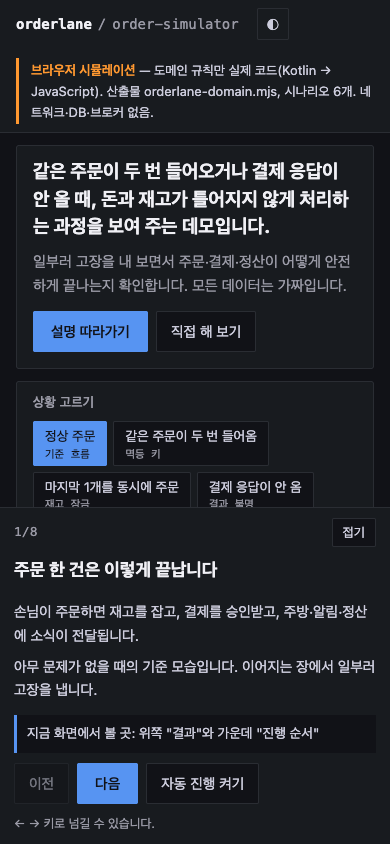
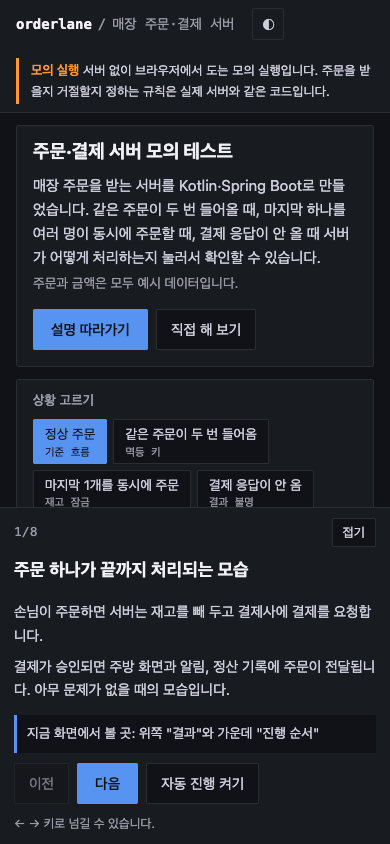
docs(web): 사이트와 README 문구를 무엇을 만든 것인지 바로 알 수 있게 고침

diff --git a/web/src/app.js b/web/src/app.js
@@ -2,12 +2,12 @@
 import * as domain from './orderlane-domain.mjs';
 
 const SCENARIOS = {
-  'happy': { label: '정상 주문', tech: '기준 흐름', desc: '손님이 주문하면 재고를 잡고, 결제를 승인받고, 주방·알림·정산에 소식이 전달됩니다. 아무 문제가 없을 때의 기준 모습입니다.' },
-  'duplicate-request': { label: '같은 주문이 두 번 들어옴', tech: '멱등 키', desc: '응답을 못 받은 앱이 같은 요청을 다시 보냅니다. 요청마다 붙은 이름표(멱등 키)와 내용을 비교해 어떻게 답할지 정합니다.' },
-  'concurrent-order': { label: '마지막 1개를 동시에 주문', tech: '재고 잠금', desc: '여러 명이 같은 순간에 마지막 재고를 주문합니다. 재고를 지키는 방식에 따라 결과가 달라집니다.' },
-  'payment-timeout': { label: '결제 응답이 안 옴', tech: '결과 불명', desc: '결제사 응답이 오지 않아 승인됐는지 알 수 없습니다. 결제사에 다시 물어봐서 확정합니다.' },
-  'callbacks': { label: '결제사 알림이 중복·뒤바뀜', tech: '콜백', desc: '결제사가 같은 알림을 두 번 보내거나, 오래된 알림을 뒤늦게 보냅니다. 이미 승인된 결제에 거절 알림이 오는 이상한 경우도 있습니다.' },
-  'consumer-failure': { label: '후속 처리가 실패함', tech: '재시도 · dead-letter', desc: '결제 뒤에 이어지는 알림 전송이 실패합니다. 다시 시도하고, 안 되면 보관함에 두었다가 재처리합니다.' },
+  'happy': { label: '정상 주문', tech: '기준 흐름', desc: '손님이 주문하면 서버가 재고를 빼고, 결제를 승인받고, 주방·알림·정산에 알립니다. 아무 문제가 없을 때의 기준 모습입니다.' },
+  'duplicate-request': { label: '같은 주문이 두 번 들어옴', tech: '멱등 키', desc: '응답을 못 받은 앱이 같은 주문을 다시 보냅니다. 서버가 이름표(멱등 키)와 주문 내용을 비교해 답을 정합니다.' },
+  'concurrent-order': { label: '마지막 1개를 동시에 주문', tech: '재고 잠금', desc: '여러 명이 같은 순간에 마지막 재고를 주문합니다. 재고를 지키는 방법에 따라 결과가 달라집니다.' },
+  'payment-timeout': { label: '결제 응답이 안 옴', tech: '결과 불명', desc: '결제사 응답이 오지 않아 승인됐는지 모릅니다. 서버가 결제사에 다시 물어봐서 결과를 정합니다.' },
+  'callbacks': { label: '결제사 알림이 중복·뒤바뀜', tech: '콜백', desc: '결제사가 같은 알림을 두 번 보내거나 오래된 알림을 늦게 보냅니다. 승인된 결제에 거절 알림이 오는 경우도 있습니다.' },
+  'consumer-failure': { label: '후속 처리가 실패함', tech: '재시도 · dead-letter', desc: '결제 뒤에 보내는 알림이 실패합니다. 서버가 다시 시도하고, 안 되면 보관함에 넣었다가 재처리합니다.' },
 };
 const VARIANTS = {
   'duplicate-request': { 'replay': '같은 요청 다시 보내기', 'in-flight': '처리 중에 다시 보내기', 'mismatch': '같은 키로 다른 내용 보내기', 'reclaim': '서버가 죽은 뒤 다시 보내기' },
@@ -31,15 +31,31 @@ const EASY = {
   'consumer-failure:recovers': '알림 전송이 두 번 실패했지만 다시 시도해서 성공했습니다.',
   'consumer-failure:dead-letter': '알림 전송이 계속 실패해 보관함에 두었고, 재처리 명령으로 알림만 다시 처리했습니다. 이미 끝난 처리는 건너뛰었습니다.',
 };
+const TITLE = {
+  'happy:default': '주문 1건이 결제까지 끝났습니다',
+  'duplicate-request:replay': '주문은 1건만 만들어졌습니다',
+  'duplicate-request:in-flight': '처리 중인 주문은 다시 만들어지지 않았습니다',
+  'duplicate-request:mismatch': '내용이 다른 요청은 거절됐습니다',
+  'duplicate-request:reclaim': '이어받아서 주문은 1건으로 끝났습니다',
+  'concurrent-order:optimistic': '재고만큼만 팔렸습니다',
+  'concurrent-order:pessimistic': '재고만큼만 팔렸습니다',
+  'concurrent-order:naive': '재고보다 많이 팔렸습니다 (잠금 없는 비교용)',
+  'payment-timeout:approved-by-inquiry': '결제사에 다시 물어 결제를 확정했습니다',
+  'payment-timeout:declined-not-found': '결제가 안 된 것을 확인하고 재고를 돌려놨습니다',
+  'payment-timeout:held-then-resolved': '보류했다가 결제를 확정했습니다',
+  'callbacks:default': '같은 알림은 한 번만 반영됐습니다',
+  'consumer-failure:recovers': '알림이 재시도 끝에 전송됐습니다',
+  'consumer-failure:dead-letter': '실패한 알림만 다시 처리했습니다',
+};
 const TOUR = [
-  { title: '주문 한 건은 이렇게 끝납니다', text: ['손님이 주문하면 재고를 잡고, 결제를 승인받고, 주방·알림·정산에 소식이 전달됩니다.', '아무 문제가 없을 때의 기준 모습입니다. 이어지는 장에서 일부러 고장을 냅니다.'], look: '위쪽 "결과"와 가운데 "진행 순서"', scenario: 'happy', variant: 'default', hl: ['#p-result', '#p-timeline'] },
-  { title: '같은 주문이 두 번 들어와도 한 건만 만들어집니다', text: ['응답을 못 받은 앱이 같은 요청을 다시 보내는 일은 흔합니다. 요청마다 붙은 이름표(멱등 키)로 같은 요청임을 알아보고, 처음 응답을 그대로 돌려줍니다.', '같은 이름표인데 내용이 다르면 거절하고, 처리 중에 또 오면 "처리 중"이라고 답합니다.'], look: '"일부러 고장 내 보기"에서 네 가지를 바꿔 보세요', scenario: 'duplicate-request', variant: 'replay', hl: ['#p-controls', '#p-timeline'] },
-  { title: '마지막 1개를 동시에 주문해도 초과 판매는 없습니다', text: ['여러 명이 같은 순간에 주문하면 한 명만 성공하고 나머지는 품절 안내를 받아야 합니다. 재고 칸을 잠그는 두 방식(낙관적·비관적)이 모두 그렇게 동작합니다.', '"잠금 없음(비교용)"으로 바꾸면 재고보다 많이 팔리는 것을 볼 수 있습니다.'], look: '위쪽 "결과"의 초과 판매 수치', scenario: 'concurrent-order', variant: 'optimistic', hl: ['#p-result', '#p-stats', '#p-controls'] },
-  { title: '결제 응답이 안 오면 다시 물어봐서 확정합니다', text: ['결제사 응답이 늦으면 승인됐는지 알 수 없습니다. 이때 거절하거나 승인으로 간주하지 않고 "모름" 상태로 두고, 결제사에 결과를 다시 물어봅니다.', '끝내 모르면 "보류"로 두고 계속 다시 확인합니다. 그동안 재고는 잡아 둡니다.'], look: '진행 순서의 상태 표시(UNKNOWN → APPROVED)', scenario: 'payment-timeout', variant: 'approved-by-inquiry', hl: ['#p-timeline'] },
-  { title: '결제사 알림이 두 번·뒤바뀌어 와도 한 번만 반영됩니다', text: ['같은 승인 알림은 한 번만 반영하고, 늦게 온 오래된 알림은 무시합니다.', '이미 승인된 결제에 거절 알림이 오면 반영하지 않고 사람이 볼 수 있게 불일치로 기록합니다.'], look: '위쪽 수치(반영·무시·거부)와 진행 순서', scenario: 'callbacks', variant: 'default', hl: ['#p-stats', '#p-timeline'] },
-  { title: '후속 처리가 실패해도 잃어버리지 않습니다', text: ['알림 전송 같은 후속 처리가 실패하면 몇 번 다시 시도하고, 그래도 안 되면 보관함(dead-letter)에 둔 채 다음 일을 진행합니다.', '원인을 고친 뒤 재처리 명령을 내리면 실패했던 처리만 실행되고, 이미 끝난 처리는 중복으로 보고 건너뜁니다.'], look: '"일부러 고장 내 보기"의 보관함 → 재처리', scenario: 'consumer-failure', variant: 'dead-letter', hl: ['#p-controls', '#p-timeline'] },
-  { title: '하루 정산과 결제사 대조', text: ['하루 매출을 매장별로 처음부터 다시 계산하므로 몇 번 돌려도 결과가 같습니다. 결제사가 보낸 거래 내역 파일과 우리 기록을 맞춰 보며 빠진 것·금액이 다른 것·중복된 것을 찾아냅니다.', '이 부분은 이 화면의 시뮬레이션이 아니라, 실제 서버를 띄워 확인한 시험 결과로 보여 줍니다.'], look: '아래 "전체 구성 시험이 확인한 것"의 정산·대사', scenario: null, hl: ['#p-e2e'] },
-  { title: '이 화면은 어디까지 진짜일까요', text: ['진행 순서의 규칙은 서버가 쓰는 것과 같은 Kotlin 코드를 JavaScript 로 바꿔 브라우저에서 실행한 것입니다. 네트워크·DB·브로커는 없는 시뮬레이션입니다.', '아래 테스트 출력과 동시성 표는 실제로 돌린 결과 파일을 그대로 읽은 것입니다.'], look: '아래 "실제 테스트 실행 출력"과 "동시성 테스트 결과"', scenario: null, hl: ['#p-log', '#p-conc'] },
+  { title: '주문 하나가 끝까지 처리되는 모습', text: ['손님이 주문하면 서버는 재고를 빼 두고 결제사에 결제를 요청합니다.', '결제가 승인되면 주방 화면과 알림, 정산 기록에 주문이 전달됩니다. 아무 문제가 없을 때의 모습입니다.'], look: '위쪽 "결과"와 가운데 "진행 순서"', scenario: 'happy', variant: 'default', hl: ['#p-result', '#p-timeline'] },
+  { title: '같은 주문이 두 번 들어와도 1건만 만들어집니다', text: ['휴대폰이 응답을 못 받으면 같은 주문을 한 번 더 보내기도 합니다. 주문마다 붙은 이름표(멱등 키)가 같으면 서버는 새로 만들지 않고 처음 응답을 돌려줍니다.', '이름표는 같은데 주문 내용이 다르면 거절합니다. 처음 주문이 아직 처리 중이면 "처리 중"이라고 답합니다.'], look: '"일부러 고장 내 보기"에서 네 가지를 눌러 보세요', scenario: 'duplicate-request', variant: 'replay', hl: ['#p-controls', '#p-timeline'] },
+  { title: '마지막 1개를 여러 명이 동시에 주문하면', text: ['한 명만 주문에 성공하고 나머지는 품절 안내를 받습니다. 재고를 지키는 방법은 두 가지(낙관적 잠금, 비관적 잠금)이고 둘 다 그렇게 동작합니다.', '"잠금 없음(비교용)"을 누르면 재고보다 많이 팔리는 경우를 볼 수 있습니다.'], look: '위쪽 "결과"의 "초과 판매" 숫자', scenario: 'concurrent-order', variant: 'optimistic', hl: ['#p-result', '#p-stats', '#p-controls'] },
+  { title: '결제 응답이 안 오면 결제사에 다시 물어봅니다', text: ['응답이 없으면 승인됐는지 알 수 없습니다. 서버는 거절도 승인도 하지 않고 "모름"으로 두고, 결제사에 결과를 다시 물어봅니다.', '계속 모르면 "보류"로 두고 계속 다시 물어봅니다. 그동안 재고는 빼 둔 채로 둡니다.'], look: '진행 순서의 상태 표시(UNKNOWN → APPROVED)', scenario: 'payment-timeout', variant: 'approved-by-inquiry', hl: ['#p-timeline'] },
+  { title: '결제사 알림이 두 번 오거나 순서가 바뀌어도 한 번만 반영됩니다', text: ['같은 승인 알림은 한 번만 반영하고, 늦게 도착한 오래된 알림은 무시합니다.', '이미 승인된 결제에 "거절" 알림이 오면 반영하지 않고, 나중에 사람이 볼 수 있게 기록해 둡니다.'], look: '위쪽 숫자(반영·무시·거부)와 진행 순서', scenario: 'callbacks', variant: 'default', hl: ['#p-stats', '#p-timeline'] },
+  { title: '알림 전송이 실패해도 주문은 사라지지 않습니다', text: ['알림 전송 같은 뒤처리가 실패하면 서버가 몇 번 다시 시도합니다. 그래도 안 되면 실패한 건을 보관함(dead-letter)에 넣고 다음 일을 계속합니다.', '원인을 고치고 재처리 명령을 내리면 실패했던 처리만 다시 실행합니다. 이미 끝난 처리는 건너뜁니다.'], look: '"일부러 고장 내 보기"의 "보관함 → 재처리"', scenario: 'consumer-failure', variant: 'dead-letter', hl: ['#p-controls', '#p-timeline'] },
+  { title: '하루 정산과 결제사 거래 내역 대조', text: ['하루치 매출을 매장별로 처음부터 다시 계산하므로 몇 번 돌려도 결과가 같습니다. 결제사가 준 거래 내역 파일과 우리 기록을 맞춰 보면서 빠진 거래나 금액이 다른 거래를 찾고, 같은 거래가 두 번 들어간 것도 찾습니다.', '이 부분은 화면 안의 모의 실행으로는 볼 수 없습니다. 서버를 실제로 띄워 돌려 본 결과를 아래에 적어 두었습니다.'], look: '아래 "서버를 실제로 띄워 확인한 것"의 "정산·대사"', scenario: null, hl: ['#p-e2e'] },
+  { title: '이 화면에서 실제 코드인 부분', text: ['주문을 받을지, 결제를 확정할지 정하는 규칙은 서버와 같은 Kotlin 코드를 JavaScript로 바꿔 이 브라우저에서 돌립니다. 서버, DB, 메시지 브로커는 없습니다.', '아래 테스트 결과와 동시 주문 표는 실제로 테스트를 돌려 남긴 파일에서 읽은 값입니다.'], look: '아래 "테스트 실행 결과"와 "동시 주문 테스트 결과"', scenario: null, hl: ['#p-log', '#p-conc'] },
 ];
 
 const $ = (s) => document.querySelector(s);
@@ -90,7 +106,7 @@ function render() {
 
   $('#scenario-desc').textContent = sc.desc;
   $('#scenario-title').textContent = `진행 순서 — ${result.title}`;
-  $('#verdict-title').textContent = result.verdictOk ? '규칙이 지켜졌습니다' : '규칙이 깨졌습니다 (비교용)';
+  $('#verdict-title').textContent = TITLE[`${state.scenario}:${state.variant}`] ?? (result.verdictOk ? '기대한 대로 처리됐습니다' : '기대와 다른 결과가 나왔습니다');
   $('#easy').textContent = EASY[`${state.scenario}:${state.variant}`] ?? '';
   $('#verdict').textContent = result.verdict;
   $('#p-result').dataset.ok = String(result.verdictOk);
@@ -113,9 +129,9 @@ for (const id of ['#p-stock', '#p-buyers']) $(id).addEventListener('input', rend
 
 async function loadJson(p) { const r = await fetch(p); if (!r.ok) throw new Error(`${p} ${r.status}`); return r.json(); }
 const KIND_DESC = {
-  unit: '도메인 규칙(결제 상태·멱등·재고·정산·대사), 모의 결제사, 어댑터',
-  integration: '실제 PostgreSQL·Redis·Redpanda 로 주문·결제·이벤트·정산·재고 동시성',
-  e2e: 'compose 전체 구성 + 결제사 고장 주입 + 동시성 + 종료 중 요청',
+  unit: '주문·결제 처리 규칙(결제 상태, 중복 요청, 재고, 정산, 대사), 모의 결제사',
+  integration: '실제 PostgreSQL·Redis·Redpanda 를 띄워 주문, 결제, 알림 전달, 정산, 재고 동시성',
+  e2e: '서버 전체를 띄워 결제사 고장, 동시 주문, 종료 중 요청',
 };
 
 async function renderEvidence() {
@@ -124,9 +140,8 @@ async function renderEvidence() {
     const t = tests.totals[k] ?? { passed: 0, failed: 0 };
     return el('tr', {}, el('td', { text: k }), el('td', { text: KIND_DESC[k] }), el('td', { class: 'num ' + (t.failed ? '' : 'good'), text: String(t.passed) }), el('td', { class: 'num ' + (t.failed ? 'bad' : ''), text: String(t.failed) }));
   }));
-  $('#test-count').textContent = String(tests.tests.length);
   $('#test-output').textContent = tests.tests.map((t) => `${t.status === 'passed' ? 'PASS' : 'FAIL'}  ${t.kind.padEnd(11)} ${t.suite} > ${t.name}`).join('\n') +
-    `\n\n도메인 모듈을 JavaScript(Node)로 컴파일해 같은 테스트를 돌린 결과: 통과 ${tests.domainJs.passed}, 실패 ${tests.domainJs.failed}\n집계 시각 ${tests.generatedAt}`;
+    `\n\n같은 처리 규칙을 JavaScript(Node)로 바꿔 같은 테스트를 돌린 결과: 통과 ${tests.domainJs.passed}, 실패 ${tests.domainJs.failed}\n집계 시각 ${tests.generatedAt}`;
   $('#conc-buyers').textContent = String(conc.buyersPerRound);
   const rows = [];
   for (const s of conc.strategies) for (const c of s.cases) {
@@ -221,7 +236,6 @@ $('#theme').addEventListener('click', () => {
 
 render();
 if (!hasSeen()) tourOpen(0, false, false);
-$('#engine').textContent = `산출물 orderlane-domain.mjs, 시나리오 ${meta.scenarios.length}개`;
 renderEvidence().then(() => { document.body.dataset.ready = 'true'; }).catch((e) => {
   $('#test-output').textContent = '증거 파일을 읽지 못했습니다: ' + e.message;
   document.body.dataset.ready = 'true';

diff --git a/web/src/index.html b/web/src/index.html
@@ -3,23 +3,24 @@
 <head>
 <meta charset="utf-8">
 <meta name="viewport" content="width=device-width, initial-scale=1">
-<title>Orderlane · 주문 처리 시뮬레이터</title>
-<meta name="description" content="같은 주문이 두 번 들어오거나 결제 응답이 안 올 때 돈과 재고가 틀어지지 않게 처리하는 과정을 보여 주는 데모. 도메인 규칙은 서버와 같은 Kotlin 코드를 JavaScript 로 컴파일해 브라우저에서 실행한다.">
+<title>주문·결제 서버 모의 테스트 — Orderlane</title>
+<meta name="description" content="매장 주문을 받는 서버를 Kotlin·Spring Boot로 만들었습니다. 같은 주문이 두 번 들어올 때, 마지막 하나를 여러 명이 동시에 주문할 때, 결제 응답이 안 올 때 서버가 어떻게 처리하는지 눌러서 확인할 수 있습니다.">
 <link rel="icon" href="data:,">
 <link rel="stylesheet" href="style.css">
 </head>
 <body>
 <a class="skiplink" href="#timeline">본문으로 건너뛰기</a>
 <header class="top">
-  <div class="crumb"><span class="word">orderlane</span><span class="slash">/</span><span class="path">order-simulator</span></div>
-  <p class="banner" id="banner" role="note"><strong>브라우저 시뮬레이션</strong> — 도메인 규칙만 실제 코드(Kotlin → JavaScript). <span id="engine">엔진 불러오는 중</span>. 네트워크·DB·브로커 없음.</p>
+  <div class="crumb"><span class="word">orderlane</span><span class="slash">/</span><span class="path">매장 주문·결제 서버</span></div>
+  <p class="banner" id="banner" role="note"><strong>모의 실행</strong> 서버 없이 브라우저에서 도는 모의 실행입니다. 주문을 받을지 거절할지 정하는 규칙은 실제 서버와 같은 코드입니다.</p>
   <button id="theme" class="ghost" type="button" aria-label="테마 전환(다크/라이트)">◐</button>
 </header>
 
 <main class="grid">
   <section class="panel hero" aria-labelledby="h-hero">
-    <h1 id="h-hero">같은 주문이 두 번 들어오거나 결제 응답이 안 올 때, 돈과 재고가 틀어지지 않게 처리하는 과정을 보여 주는 데모입니다.</h1>
-    <p class="lead">일부러 고장을 내 보면서 주문·결제·정산이 어떻게 안전하게 끝나는지 확인합니다. 모든 데이터는 가짜입니다.</p>
+    <h1 id="h-hero">주문·결제 서버 모의 테스트</h1>
+    <p class="lead">매장 주문을 받는 서버를 Kotlin·Spring Boot로 만들었습니다. 같은 주문이 두 번 들어올 때, 마지막 하나를 여러 명이 동시에 주문할 때, 결제 응답이 안 올 때 서버가 어떻게 처리하는지 눌러서 확인할 수 있습니다.</p>
+    <p class="sub">주문과 금액은 모두 예시 데이터입니다.</p>
     <div class="hero-btns">
       <button id="tour-start" class="primary" type="button">설명 따라가기</button>
       <button id="tour-skip" class="ghost2" type="button">직접 해 보기</button>
@@ -60,26 +61,26 @@
   </section>
 
   <section class="panel rules" id="p-rules" aria-labelledby="h-rules">
-    <h2 id="h-rules" class="ptitle">실제로 실행된 도메인 규칙 호출 <span class="tag">domain</span></h2>
-    <div class="scroll"><table id="rules"><thead><tr><th>시간</th><th>주체</th><th>호출한 규칙</th><th>상태</th></tr></thead><tbody></tbody></table></div>
+    <h2 id="h-rules" class="ptitle">서버가 실행한 처리 <span class="tag">실제 코드 호출</span></h2>
+    <div class="scroll"><table id="rules"><thead><tr><th>시간</th><th>주체</th><th>호출한 코드</th><th>상태</th></tr></thead><tbody></tbody></table></div>
   </section>
 
   <section class="panel log" id="p-log" aria-labelledby="h-tests">
-    <h2 id="h-tests" class="ptitle">실제 테스트 실행 출력 <span class="tag">make verify</span></h2>
-    <p class="hint">아래는 <code>make verify</code> 가 돌린 결과 파일을 그대로 읽은 것입니다. 이 사이트가 만든 숫자가 아닙니다.</p>
-    <table id="test-summary"><thead><tr><th>종류</th><th>무엇을 시험하나</th><th>통과</th><th>실패</th></tr></thead><tbody></tbody></table>
-    <details id="test-list"><summary>테스트 전체 목록 (<span id="test-count">0</span>건)</summary><pre class="term" id="test-output" tabindex="0"></pre></details>
+    <h2 id="h-tests" class="ptitle">테스트 실행 결과 <span class="tag">make verify</span></h2>
+    <p class="hint">아래 숫자는 <code>make verify</code> 로 테스트를 돌리고 남긴 결과 파일에서 읽은 값입니다.</p>
+    <table id="test-summary"><thead><tr><th>종류</th><th>시험 내용</th><th>통과</th><th>실패</th></tr></thead><tbody></tbody></table>
+    <details id="test-list"><summary>테스트 이름 전체 보기</summary><pre class="term" id="test-output" tabindex="0"></pre></details>
   </section>
 
   <section class="panel conc" id="p-conc" aria-labelledby="h-conc">
-    <h2 id="h-conc" class="ptitle">동시성 테스트 결과 <span class="tag">초과 판매</span></h2>
-    <p class="hint">마지막 재고에 <span id="conc-buyers">24</span>명이 동시에 주문하는 시험을 두 가지 잠금 방식으로 라운드마다 재고를 되돌려 반복했습니다. 초과 판매 0 이 목표입니다.</p>
+    <h2 id="h-conc" class="ptitle">동시 주문 테스트 결과 <span class="tag">초과 판매</span></h2>
+    <p class="hint">재고가 1개일 때와 5개일 때, <span id="conc-buyers">24</span>명이 동시에 주문하는 테스트를 잠금 방식 두 가지로 반복했습니다. 재고보다 많이 팔리면 '초과 판매'에 숫자가 찍힙니다. 0이면 정상입니다.</p>
     <div class="scroll"><table id="conc"><thead><tr><th>잠금 방식</th><th>재고</th><th>반복</th><th>초과 판매</th><th>라운드별 판매 수</th><th>종료 재고</th></tr></thead><tbody></tbody></table></div>
   </section>
 
   <section class="panel e2e" id="p-e2e" aria-labelledby="h-e2e">
-    <h2 id="h-e2e" class="ptitle">전체 구성 시험이 확인한 것 <span class="tag">e2e</span></h2>
-    <p class="hint">앱·결제 게이트웨이(모의)·PostgreSQL·Redis·브로커를 compose 로 올려 바깥에서 확인한 내용입니다. 정산·결제사 대조도 여기서 확인합니다.</p>
+    <h2 id="h-e2e" class="ptitle">서버를 실제로 띄워 확인한 것 <span class="tag">e2e</span></h2>
+    <p class="hint">서버, 모의 결제사, PostgreSQL, Redis, 메시지 브로커를 docker compose 로 띄우고 바깥에서 요청을 보내 확인한 결과입니다. 하루 정산과 결제사 거래 내역 대조도 여기서 확인했습니다.</p>
     <ul id="e2e" class="plain"></ul>
   </section>
 
@@ -87,17 +88,17 @@
     <details>
       <summary id="h-gl">용어 풀이</summary>
       <dl>
-        <dt>멱등 키</dt><dd>같은 요청인지 알아보려고 요청마다 붙이는 이름표(<code>Idempotency-Key</code>). 같은 이름표면 처음 결과를 그대로 돌려줍니다.</dd>
-        <dt>낙관적 잠금</dt><dd>잠그지 않고 진행하되, 그 사이 다른 사람이 바꿨으면(버전이 달라졌으면) 다시 읽고 재시도하는 방식.</dd>
-        <dt>비관적 잠금</dt><dd>재고 칸을 먼저 잠그고 한 명씩 처리하는 방식.</dd>
-        <dt>아웃박스</dt><dd>주문·결제 변경과 같은 트랜잭션에 "보낼 소식"을 같이 적어 두고 따로 전달하는 방식. 변경과 소식이 따로 놀지 않습니다.</dd>
-        <dt>dead-letter</dt><dd>여러 번 재시도해도 처리하지 못한 소식을 버리지 않고 모아 두는 보관함. 나중에 재처리 명령으로 다시 처리합니다.</dd>
-        <dt>대사</dt><dd>우리 기록과 결제사가 보내 준 거래 내역 파일을 맞춰 보며 빠진 것·금액이 다른 것·중복된 것을 찾는 일.</dd>
+        <dt>멱등 키</dt><dd>요청마다 붙이는 이름표(<code>Idempotency-Key</code>). 같은 이름표가 또 오면 서버는 처음 결과를 그대로 돌려줍니다.</dd>
+        <dt>낙관적 잠금</dt><dd>잠그지 않고 진행하다가, 그 사이 다른 주문이 재고를 바꿨으면(버전이 달라졌으면) 다시 읽고 재시도하는 방식입니다.</dd>
+        <dt>비관적 잠금</dt><dd>재고를 먼저 잠그고 한 명씩 처리하는 방식입니다.</dd>
+        <dt>아웃박스</dt><dd>주문이나 결제를 바꿀 때 "알릴 내용"도 같은 DB 트랜잭션에 함께 적어 두고, 나중에 따로 전달하는 방식입니다. 주문은 바뀌었는데 알림만 사라지는 일이 없습니다.</dd>
+        <dt>dead-letter</dt><dd>여러 번 다시 시도해도 처리하지 못한 건을 버리지 않고 모아 두는 보관함입니다. 나중에 재처리 명령으로 다시 처리합니다.</dd>
+        <dt>대사</dt><dd>우리 기록과 결제사가 준 거래 내역 파일을 맞춰 보며 빠진 거래나 금액이 다른 거래를 찾는 일입니다.</dd>
       </dl>
     </details>
   </section>
 </main>
-<footer><span>모든 데이터는 합성입니다. 외부 요청을 하지 않는 정적 페이지입니다. 쿠키는 "설명을 봤는지"를 기억하는 하나(ol_tour)만 쓰고, 식별 정보는 담지 않습니다.</span></footer>
+<footer><span>예시 데이터만 씁니다. 이 페이지는 외부 서버에 요청을 보내지 않습니다. 쿠키는 설명을 이미 봤는지 기억하는 ol_tour 하나만 쓰고, 개인 정보는 담지 않습니다.</span></footer>
 
 <aside id="tour" class="tour" aria-labelledby="tour-title" hidden>
   <div class="tour-head"><span class="mono" id="tour-prog" aria-live="off">1/8</span><button id="tour-collapse" class="ghost2" type="button">접기</button></div>

diff --git a/web/src/style.css b/web/src/style.css
@@ -35,7 +35,8 @@ button { font: inherit; cursor: pointer; }
 .panel { background: var(--panel); border: 1px solid var(--line); border-radius: 3px; padding: 12px 16px 16px; }
 .ptitle { margin: 0 0 10px; font: 600 13px var(--sans); color: var(--muted); letter-spacing: .02em; }
 .hero h1 { margin: 0; font-size: 22px; line-height: 1.45; color: var(--strong); font-weight: 700; }
-.lead { margin: 8px 0 14px; color: var(--muted); font-size: 15px; }
+.lead { margin: 8px 0 4px; color: var(--text); font-size: 15px; }
+.sub { margin: 0 0 14px; color: var(--muted); font-size: 13.5px; }
 .hero-btns { display: flex; gap: 8px; flex-wrap: wrap; }
 .primary { background: var(--blue); color: var(--on-blue); border: 0; border-radius: 2px; padding: 8px 18px; font-weight: 600; }
 .primary:hover { filter: brightness(1.1); }

diff --git a/README.md b/README.md
@@ -2,13 +2,13 @@
 
 **데모: https://choibongseok.github.io/orderlane/**
 
-매장 주문 → 결제 → 정산을 다루는 작은 백엔드입니다. Kotlin · Spring Boot 3 · PostgreSQL · Redis · Kafka 호환 브로커(Redpanda).
-화면이 아니라 **돈과 재고가 걸린 요청을 중복·동시·실패 상황에서 맞게 처리하는 법**이 주제입니다. 데이터는 모두 합성이고, 결제사는 저장소 안의 모의 게이트웨이입니다.
+Orderlane 은 매장 주문을 받아 결제하고 정산하는 서버입니다. Kotlin, Spring Boot, PostgreSQL, Redis, Kafka 호환 브로커(Redpanda)로 만든 데모입니다.
+같은 주문이 두 번 들어올 때, 마지막 재고를 여러 명이 동시에 주문할 때, 결제 응답이 안 올 때 돈과 재고가 틀어지지 않게 처리하는 부분을 구현하고 테스트했습니다. 데이터는 모두 예시이고, 결제사는 저장소 안의 모의 서버입니다.
 
 ![데모 사이트: 주문 한 건의 흐름과 실패 주입](docs/demo-desktop-light.png)
 
-데모 사이트는 운영 대시보드 형태입니다. "설명 따라가기"를 누르면 8장짜리 안내가 같은 주문 두 번, 마지막 1개 동시 주문, 결제 응답 없음, 알림 중복·뒤바뀜, 후속 처리 실패, 정산 순서로 시나리오를 대신 골라 주고, 직접 고장을 내 보면서 상태 전이를 타임라인으로 볼 수도 있습니다.
-이 타임라인은 서버가 쓰는 **같은 Kotlin 도메인 모듈을 JavaScript 로 컴파일해** 브라우저에서 돌린 결과입니다(규칙을 JS 로 다시 쓰지 않았습니다). 네트워크·DB·브로커는 없는 시뮬레이션이고, 실제 서버 동작은 테스트로 확인합니다.
+데모 사이트에서 "설명 따라가기"를 누르면 8장짜리 안내가 상황을 하나씩 골라 줍니다. 직접 고장을 내 보고 서버가 처리하는 순서를 타임라인으로 볼 수도 있습니다.
+타임라인은 서버가 쓰는 것과 같은 Kotlin 도메인 모듈을 JavaScript 로 바꿔 브라우저에서 돌린 결과입니다. 규칙을 JavaScript 로 다시 쓰지 않았습니다. 서버, DB, 브로커는 없는 모의 실행이고, 실제 서버의 동작은 테스트로 확인합니다.
 
 ## 구조
 
